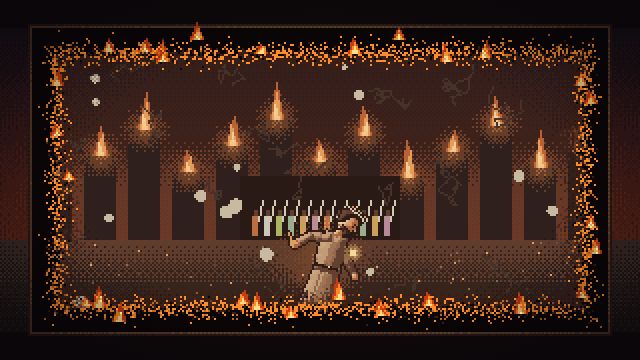
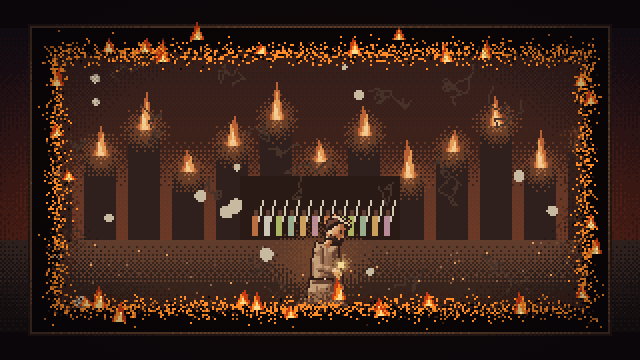
Paint the post-credits cinematic the_hush (7 stills) and trim the epilogue to its 8 shots
The Hush is never drawn as a figure: only darkness, a starless crack, and an
eye of no colour in the Heartstone (06) and, very small, in Ilyra's eyes (05).
Robed figures can now kneel (kneel_robed), used for Vael-Orrun in the vault
and in the burning fresco.

Claude-Session: https://claude.ai/code/session_01VdUyUgmG4raMCXRB9NVTJe

Changed region(s): [[0.4375, 0.5806, 0.5938, 0.8556]]

diff --git a/tools/art/pix2d/shots_story.py b/tools/art/pix2d/shots_story.py
@@ -119,6 +119,19 @@ def kneel_pose(name="cassivane"):
     return p
 
 
+def kneel_robed(sc, name, x, ground, light=(1, 1, 1), flip=False):
+    """A robed figure on its knees: head and shoulders bowed, the robe pooled on the ground (robes have no leg joints)."""
+    im, fx, fy = arr_of(name, pose={"body": (0.12, 1, 0), "head": (0.28, 0, 0)}, flip=flip, light=light)
+    cut = fy - 15
+    rows = im[cut - 1, :, :]
+    solid = rows[..., 3] > 200
+    col = tuple(rows[solid][:, :3].mean(0)) if solid.any() else (90, 90, 96)
+    im[cut:, :, 3] = 0
+    paste(sc, im, x, ground + 15, fx, fy)
+    sc.poly([(x - 13, ground + 1), (x - 8, ground - 6), (x + 8, ground - 6), (x + 14, ground + 1)], col)
+    sc.line(x - 13, ground + 1, x + 14, ground + 1, tuple(c * 0.5 for c in col))
+
+
 def dust(sc, n, x0, x1, y0, y1, base=(74, 66, 62), seed=0):
     """A cloud of dust as overlapping lumps, each lit from the upper left."""
     rng = np.random.default_rng(seed)
@@ -1525,11 +1538,10 @@ def convergence_intro_05():
         sc.line(x + 3, 110, x + 5, 100, (180, 180, 190))
     sc.bands("3a2a24", "1a1210", 120, y1, n=3)
     sc.particles(140, [(90, 80, 76), (60, 50, 46), (255, 140, 50)], 120, y1, x0, x1)
-    im, fx, fy = arr_of("vael_orrun_young", pose=kneel_pose("vael_orrun_young"), light=(1.0, 0.8, 0.7))
     sc.glow(160, 130, 30, (255, 140, 60), 0.4)
-    paste(sc, im, 160, 152, fx, fy)
-    sc.glow(176, 126, 6, GOLD, 0.8)
-    sc.c[125:128, 175:178] = (255, 220, 120)
+    kneel_robed(sc, "vael_orrun_young", 160, 152, light=(1.0, 0.8, 0.7))
+    sc.glow(170, 132, 6, GOLD, 0.8)
+    sc.c[131:134, 169:172] = (255, 220, 120)
     fresco(sc, x0, y0, x1, y1, seed=5, burn=0.14)
     sc.vignette(0.5)
     return sc
@@ -1642,6 +1654,163 @@ def _portrait(cid):
     import portraits
     return portraits.portrait(cid) if cid in portraits.PEOPLE or cid in portraits.HEADS else people.portrait(cid).image()
 
+# ---- the post-credits scene: the_hush (the Hush itself is never drawn, only an eye of no colour in 06) -------------
+NOCOLOUR = (176, 176, 176)
+people.SPECS["vael_orrun_greying"] = dict(people.SPECS["vael_orrun_young"], name="Vael-Orrun in the vault", eye=(150, 150, 156))
+creatures.CREATURES["vael_orrun_greying"] = people._make("vael_orrun_greying")
+
+
+def _hall_night(sc):
+    hall(sc, dim=0.5, throne=False)
+    sc.blend(np.ones((H, W), bool), (4, 4, 6), 0.55)
+
+
+def _colourless_eye(sc, cx, cy, rx, ry):
+    eye = ((sc.xs - cx) / rx) ** 2 + ((sc.ys - cy) / ry) ** 2 < 1
+    sc.c[eye] = NOCOLOUR
+    sc.c[(np.hypot(sc.xs - cx, (sc.ys - cy) * rx / ry) < rx * 0.25) & eye] = (12, 12, 12)
+    return eye
+
+
+def the_hush_01():
+    """After the credits: the Hall of the Ring, rebuilt, empty, night. The Heartstone glows in six colours... then,
+    faintly, a seventh. Ilyra, alone, leans in to look."""
+    sc = Scene(401)
+    _hall_night(sc)
+    heartstone(sc, 182, 92, 2.4, seventh=True)
+    sc.put("ilyra", 132, 170, pose={"body": (0.22, 2, 2), "head": (0.15, 0, 0)}, light=(0.85, 0.85, 0.95),
+           rim=(230, 220, 255))
+    sc.vignette(0.8)
+    return sc
+
+
+def the_hush_02():
+    """Two thousand years ago: the vault under burning Vael. The young Keeper, Vael-Orrun, kneels in the dark with his
+    wife's ring in his fist, listening. Grey creeps into his eyes from the edges."""
+    sc = Scene(402)
+    sc.c[:] = (6, 5, 7)
+    for k, x in enumerate(range(-10, W + 40, 46)):                    # the vault's ribs, barely seen
+        sc.poly([(x, H), (x + 8, H), (x + 30, 30), (x + 160 - k * 4, 0), (x + 150 - k * 4, 0), (x + 22, 30)], (16, 13, 16))
+    for x in (96, 210, 260):                                          # firelight leaking through cracks in the ceiling
+        m = sc.poly([(x, 0), (x + 3, 0), (x + 30, 150), (x + 14, 150)], None)
+        sc.blend(m, (200, 90, 40), 0.18)
+        sc.line(x, 0, x + 2, 4, (255, 140, 50))
+    sc.particles(40, [(255, 120, 40), (180, 70, 30)], 0, 120, 80, 300)
+    sc.bands("1a1214", "0a0708", 150, H, n=3)
+    sc.glow(160, 140, 46, (120, 60, 40), 0.35)
+    kneel_robed(sc, "vael_orrun_greying", 160, 166, light=(0.75, 0.6, 0.55))
+    sc.glow(170, 146, 5, GOLD, 0.7)
+    sc.c[145:147, 169:171] = (255, 220, 120)
+    d = np.hypot(sc.xs - 160, (sc.ys - 130) * 1.2)                     # the dark pressing in, and listening
+    sc.blend(d > 70, (2, 2, 3), np.clip((d - 70) / 80, 0, 1) * 0.9, steps=5)
+    return sc
+
+
+def the_hush_03():
+    """Six years ago: Cassivane at his daughter's grave in the rain. Above him, a thin crack of starless dark opens in
+    the night sky."""
+    sc = Scene(403)
+    sky(sc, "night")
+    sc.bands("10121c", "1e2232", 0, 130, n=6)
+    sc.stars(70, 120)
+    crack = [(196, 6), (192, 18), (199, 30), (194, 44), (201, 58), (197, 68)]
+    for (x0, y0), (x1, y1) in zip(crack, crack[1:]):                  # a hairline with nothing in it, not even stars
+        for w in (-1, 0, 1):
+            sc.line(x0 + w, y0, x1 + w, y1, (0, 0, 0))
+    sc.ridge(128, 4, "1a1c22", 61, freq=0.9)
+    sc.bands("1e2028", "0c0d12", 128, H, n=4)
+    sc.rect(176, 126, 196, 160, (70, 72, 80))                          # the headstone
+    sc.disc(186, 126, 10, (70, 72, 80), squash=0.7)
+    sc.rect(176, 120, 178, 160, (110, 112, 120))
+    sc.poly([(170, 160), (206, 160), (210, 166), (166, 166)], (40, 34, 30))
+    for k in range(3):                                                 # flowers on the grave
+        sc.c[160, 182 + k * 4] = (200, 190, 220)
+    im, fx, fy = arr_of("cassivane_marshal", pose={"head": (0.3, 0, 0), "body": (0.08, 0, 1)}, light=(0.6, 0.62, 0.75))
+    paste(sc, im, 140, 168, fx, fy)
+    rng = np.random.default_rng(31)
+    for _ in range(260):                                               # rain
+        x, y = int(rng.integers(0, W + 20)), int(rng.integers(-6, H))
+        sc.line(x, y, x - 2, y + 5, (110, 118, 140))
+    sc.vignette(0.55)
+    return sc
+
+
+def the_hush_04():
+    """The Crack in the Hollow Rift seen from the far side, from the Outer Hollow: wide open where the Concord marched
+    through. The six Wardens' light spills in from the world beyond it."""
+    sc = Scene(404)
+    sc.bands("060508", "141218", 0, H, n=5)
+    sc.stars(30, H, cols=((60, 60, 70), (40, 40, 50)))
+    edge = [(150, 0), (142, 30), (132, 60), (120, 100), (104, 140), (92, 180)]
+    edge2 = [(176, 0), (186, 30), (198, 60), (214, 100), (232, 140), (250, 180)]
+    rift = sc.poly(edge + edge2[::-1], None)
+    sc.bands("6a8ac0", "f0d8a0", 0, H, n=6, mask=rift)                 # the world beyond, at dawn
+    sc.ridge(150, 6, "4a5a3a", 71, freq=1.6)
+    sc.c[~rift & (sc.ys >= 140)] = 0
+    sc.bands("141218", "060508", 140, H, n=3, mask=~rift)
+    for i, c in enumerate(RINGC):                                      # six beams spilling in
+        a = math.radians(-60 + i * 24)
+        x0, y0 = 170, 110
+        m = sc.poly([(x0, y0), (x0 + math.sin(a - 0.08) * 400, y0 + math.cos(a - 0.08) * 400 - 260),
+                     (x0 + math.sin(a + 0.08) * 400, y0 + math.cos(a + 0.08) * 400 - 260)], None)
+        sc.blend(m & ~rift, c, 0.22)
+    for p in (edge, edge2):                                            # the lips of the Crack, lit
+        for (x0, y0), (x1, y1) in zip(p, p[1:]):
+            sc.line(x0, y0, x1, y1, (230, 220, 200))
+    tiny_army(sc, 30, 110, 176, 10, (40, 44, 60), rows=2)             # what the Concord left on this side: tracks, a banner
+    sc.rect(60, 150, 62, 172, (50, 40, 30))
+    sc.poly([(62, 150), (78, 154), (62, 158)], (52, 80, 138))
+    sc.vignette(0.5)
+    return sc
+
+
+def the_hush_05():
+    """Ilyra, frozen in front of the Heartstone. Reflected in both her eyes, very small, something with no colour at all."""
+    sc = Scene(405)
+    skin = hx("dcc4b8")
+    sc.c[:] = skin * 0.62
+    sc.bands("6a5a58", "8a7672", 0, H, n=5)                            # an extreme close-up: the band of her face
+    sc.glow(160, 90, 200, (220, 200, 210), 0.35)
+    for x in (12, 300):                                               # black veins running up from her temples
+        for k in range(4):
+            sc.line(x, 180 - k * 30, x + (6 if x < 100 else -6), 150 - k * 30, (40, 30, 50))
+    for cx in (96, 224):
+        sc.poly([(cx - 60, 76), (cx - 20, 64), (cx + 30, 66), (cx + 62, 80), (cx + 30, 72), (cx - 20, 70)], (90, 70, 66))   # brow shadow
+        sc.c[((sc.xs - cx) / 52) ** 2 + ((sc.ys - 100) / 24) ** 2 < 1] = (236, 230, 228)                                    # the eye
+        sc.disc(cx, 100, 21, (122, 112, 204))                                                                             # iris
+        sc.disc(cx, 100, 15, (90, 80, 170))
+        sc.disc(cx, 100, 9, (8, 6, 12))                                                                                   # pupil
+        for k, c in enumerate(RINGC):                                  # the Heartstone's six colours caught in the iris
+            a = k / 6 * math.pi * 2
+            sc.c[int(100 + math.sin(a) * 18), int(cx + math.cos(a) * 18)] = c
+        sc.rect(cx - 2, 98, cx + 3, 101, NOCOLOUR)                     # something with no colour at all
+        sc.c[99, cx] = (12, 12, 12)
+        sc.rect(cx - 11, 92, cx - 8, 95, (255, 255, 255))               # catchlight
+        lid = ((sc.xs - cx) / 52) ** 2 + ((sc.ys - 100) / 24) ** 2
+        sc.c[(lid >= 1) & (lid < 1.18) & (sc.ys < 100)] = (40, 26, 26)  # upper lid line and lashes
+        sc.c[(lid >= 1) & (lid < 1.08) & (sc.ys >= 100)] = (120, 90, 86)
+        for k in range(9):
+            x = cx - 44 + k * 11
+            sc.line(x, 78 + abs(k - 4) * 1.4, x - 3, 72 + abs(k - 4) * 1.4, (30, 20, 22))
+    sc.vignette(0.5)
+    return sc
+
+
+def the_hush_06():
+    """Deep inside the seventh colour of the Heartstone, something with no colour at all opens, like an eye."""
+    sc = Scene(406)
+    sc.c[:] = (4, 4, 6)
+    heartstone(sc, 160, 90, 4.0, seventh=True)
+    sc.disc(160, 90, 14, (196, 204, 188))
+    _colourless_eye(sc, 160, 90, 13, 4.5)
+    sc.vignette(0.9)
+    return sc
+
+
+def the_hush_07():
+    """Black. No sound at all for a moment before the voice, and none after. Title card: TO BE CONTINUED."""
+    return epilogue_10()
+
 
 CINEMATICS.update({
     "regents_counsel": [regents_counsel_01, regents_counsel_02, regents_counsel_03, regents_counsel_04],
@@ -1660,5 +1829,6 @@ CINEMATICS.update({
     "mirror_spire": [mirror_spire_01, mirror_spire_02, mirror_spire_03],
     "crownless_throne": [crownless_throne_01, crownless_throne_02, crownless_throne_03],
     "epilogue": [epilogue_01, epilogue_02, epilogue_03_young, epilogue_04_past, epilogue_05_thalassa, epilogue_03, epilogue_04,
-                 epilogue_05, epilogue_09, epilogue_10],
+                 epilogue_05],
+    "the_hush": [the_hush_01, the_hush_02, the_hush_03, the_hush_04, the_hush_05, the_hush_06, the_hush_07],
 })
